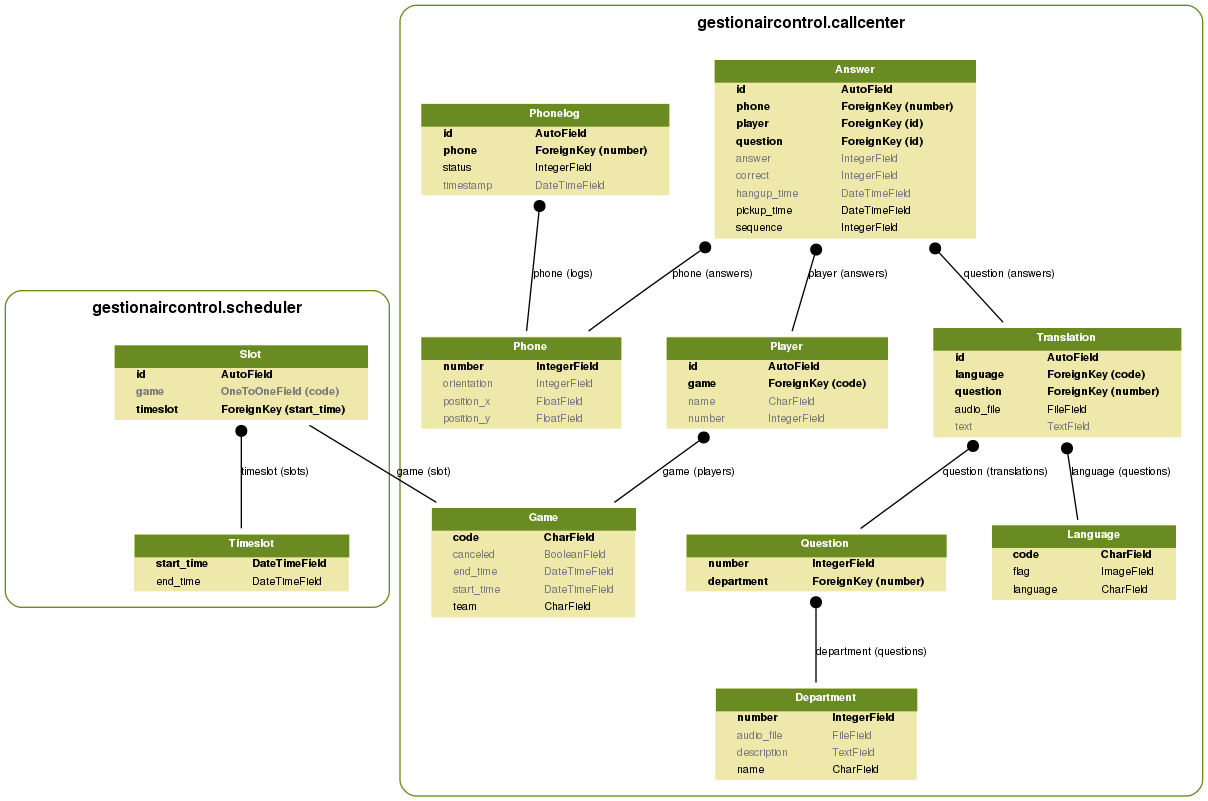
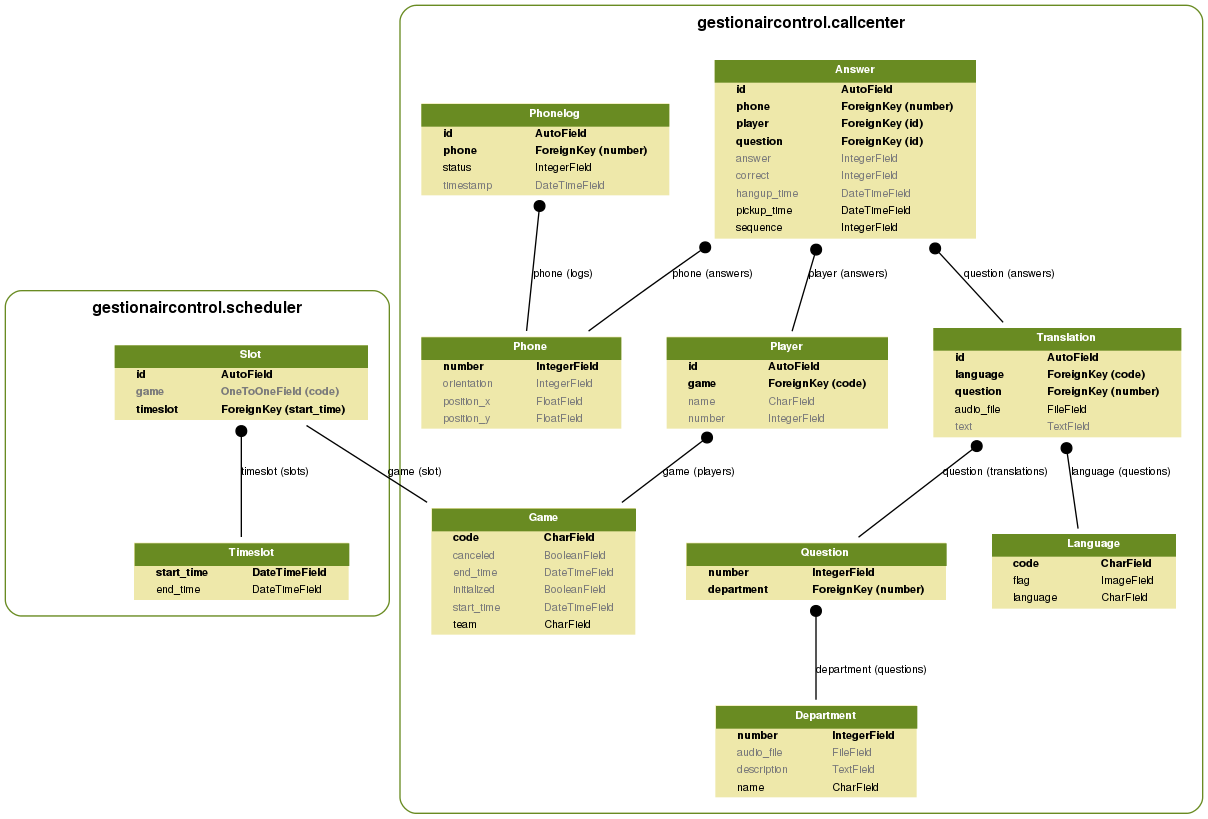
Added attribute initialized on the Game

diff --git a/gestionaircontrol/callcenter/models.py b/gestionaircontrol/callcenter/models.py
@@ -44,6 +44,8 @@ class Game(models.Model):
                                     help_text=_("The end time of the game"))
     canceled = models.BooleanField(verbose_name=_("canceled"), default=False, blank=True,
                                    help_text=_("A game is canceled in the case of a no-show (time slot + grace period"))
+    initialized = models.BooleanField(verbose_name=_("initialized"), default=False, blank=True,
+                                      help_text=_("A game is initialized when the team is ready to play"))
 
 
 class Player(models.Model):
